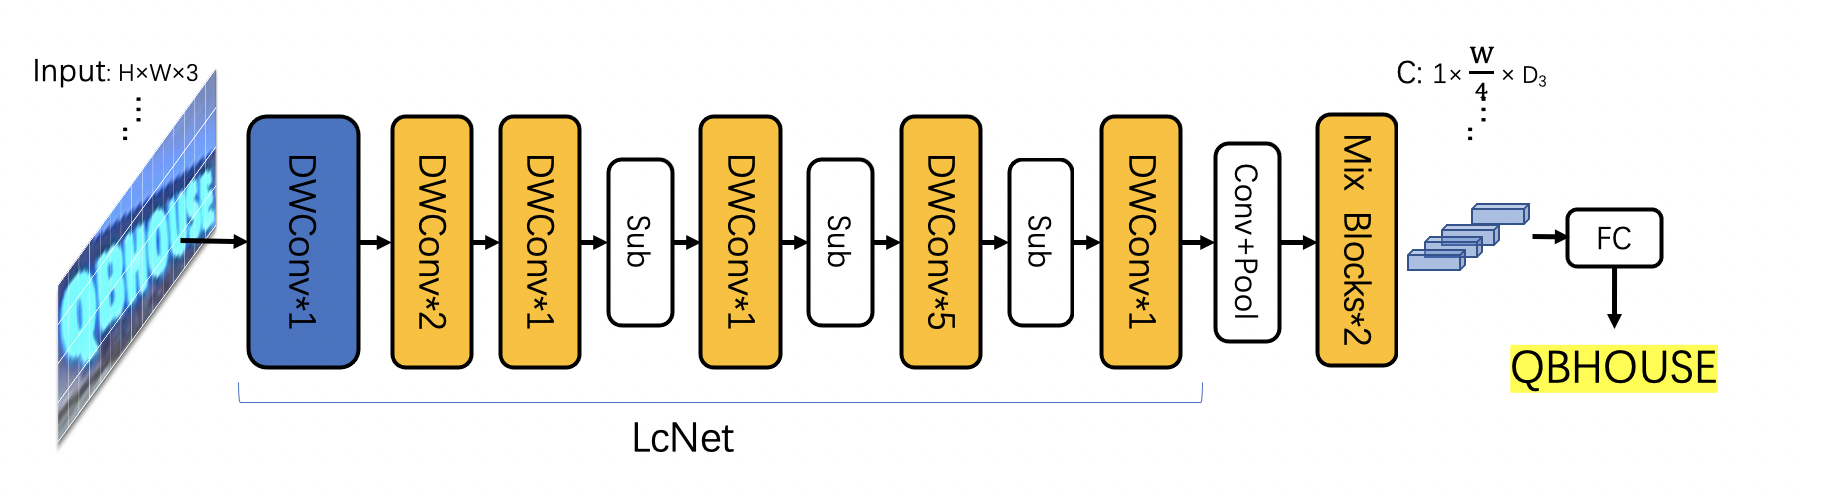
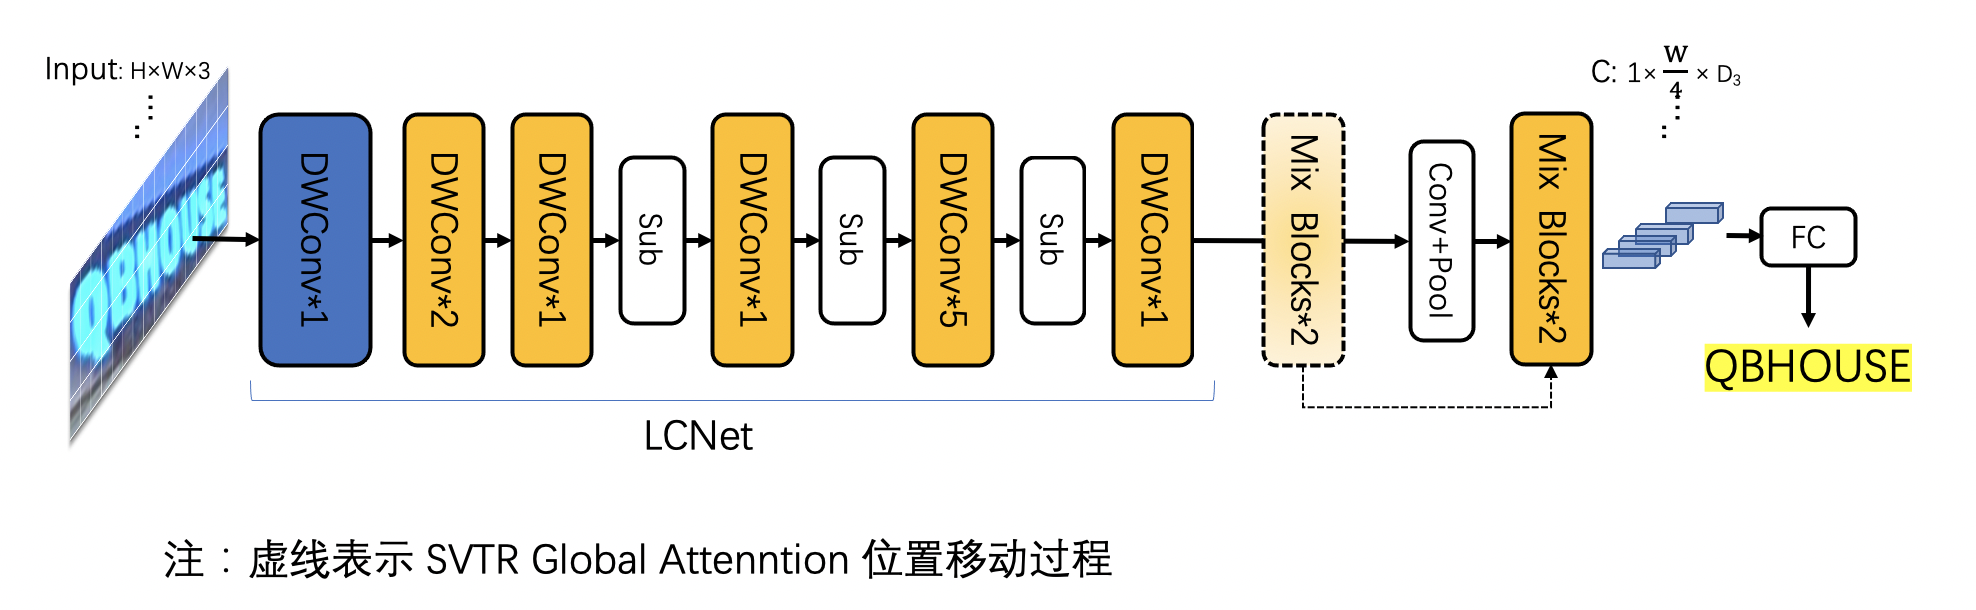
update introduction

diff --git a/doc/doc_ch/ppocr_introduction.md b/doc/doc_ch/ppocr_introduction.md
@@ -54,56 +54,61 @@ PP-OCRv3文本检测从网络结构、蒸馏训练策略两个方向做了进一
 
 - PP-OCRv3 文本识别
 
-[SVTR](todo:add_link) 证明了强大的单视觉模型即可高效准确完成文本识别任务，在中英文数据上均有优秀的表现。基于SVTR的工作，PP-OCRv3首先验证了SVTR_tiny结构在中文数据上的效果。
-实验发现SVTR_tiny在中文测试集上acc可以提升10.7%。
+[SVTR](https://arxiv.org/abs/2205.00159) 证明了强大的单视觉模型（无需序列模型）即可高效准确完成文本识别任务，在中英文数据上均有优秀的表现。经过实验验证，SVTR_tiny在自建的中文数据集上，识别精度可以提升10.7%，网络结构如下所示：
 
 <img src="../ppocr_v3/svtr_tiny.jpg" width=800>
 
-非常遗憾，由于 MKLDNN 加速库支持的模型结构有限，SVTR 在CPU+MKLDNN上相比PP-OCRv2慢了10倍。
+由于 MKLDNN 加速库支持的模型结构有限，SVTR 在CPU+MKLDNN上相比PP-OCRv2慢了10倍。
 
-PP-OCRv3 期望提升模型精度的同时不带来额外的推理耗时，以加速预测为目的，分析得到主要耗时部分在Transformer Block，并对 SVTR_tiny 的结构进行了一系列优化:
+PP-OCRv3 期望在提升模型精度的同时，不带来额外的推理耗时。通过分析发现，SVTR_tiny结构的主要耗时模块为Transformer Block，因此我们对 SVTR_tiny 的结构进行了一系列优化，详细速度数据请参考下方消融实验表格:
 
-1. 将SVTR网络前半部分替换为LCNet的前三个stage，保留4个 SVTR 的 Global attenntion，精度为76%，速度基本不变。
+1. 将SVTR网络前半部分替换为PP-LCNet的前三个stage，保留4个 SVTR 的 Global Attenntion Block，精度为76%，加速69%，网络结构如下所示：
 <img src="../ppocr_v3/svtr_g4.png" width=800>
-2. 将4个Global attention 减小到2个，精度为72.9%，速度提升3倍。
+2. 将4个 Global Attenntion Block 减小到2个，精度为72.9%，加速69%，网络结构如下所示：
 <img src="../ppocr_v3/svtr_g2.png" width=800>
-3. attention 的预测速度与输入其feature的shape有关，因此移动Global attention至avg_pool后，精度下降为71.9%，速度超越 CNN-base 的PP-OCRv2 27%。
+3. 实验发现 Global Attention 的预测速度与输入其特征的shape有关，因此后移Global Attenntion Block的位置到池化层之后，精度下降为71.9%，速度超越 CNN-base 的PP-OCRv2 22%，网络结构如下所示：
 <img src="../ppocr_v3/ppocr_v3.png" width=800>
 
-为了提升模型精度同时不引入额外推理成本，PP-OCRv3参考GTC策略，使用Attention监督CTC训练，预测时完全去除Attention模块，在推理阶段不增加任何耗时, 精度提升3.8%。
+为了提升模型精度同时不引入额外推理成本，PP-OCRv3参考GTC策略，使用Attention监督CTC训练，预测时完全去除Attention模块，在推理阶段不增加任何耗时, 精度提升3.8%，训练流程如下所示：
 <img src="../ppocr_v3/GTC.png" width=800>
 
-训练策略方面参考 [SSL](https://github.com/ku21fan/STR-Fewer-Labels) 设计了文本方向任务，训练了适用于文本识别的预训练模型，加速模型收敛过程，精度提升了0.6%; 使用UDML蒸馏策略，进一步提升精度1.5%。
+在训练策略方面，PP-OCRv3参考 [SSL](https://github.com/ku21fan/STR-Fewer-Labels) 设计了文本方向任务，训练了适用于文本识别的预训练模型，加速模型收敛过程，精度提升了0.6%; 使用UDML蒸馏策略，进一步提升精度1.5%，训练流程所示：
 
 <img src="../ppocr_v3/SSL.png" width="300"> <img src="../ppocr_v3/UDML.png" width="500">
 
 
-数据增强方面基于 [ConCLR](https://www.cse.cuhk.edu.hk/~byu/papers/C139-AAAI2022-ConCLR.pdf) 中的ConAug方法，设计了 RecConAug 数据增强方法，增强数据多样性，精度提升0.5%，
+数据增强方面：
+
+1. 基于 [ConCLR](https://www.cse.cuhk.edu.hk/~byu/papers/C139-AAAI2022-ConCLR.pdf) 中的ConAug方法，设计了 RecConAug 数据增强方法，增强数据多样性，精度提升0.5%，增强可视化效果如下所示：
 <img src="../ppocr_v3/recconaug.png" width=800>
 
+2. 使用训练好的 SVTR_large 预测 120W 的 lsvt 无标注数据，取出其中得分大于0.95的数据，共得到81W识别数据加入到PP-OCRv3的训练数据中，精度提升1%。
 
 总体来讲PP-OCRv3识别从网络结构、训练策略、数据增强三个方向做了进一步优化:
-- 网络结构上：结合 LCNet 与[SVTR](todo:add_link) 的 Transformer block，去除LSTM特征解码模块，并行处理序列特征，兼顾精度与预测速度；参考 [GTC](https://arxiv.org/pdf/2002.01276.pdf) 策略，使用注意力机制模块指导CTC训练，定位和识别字符，提升不规则文本的识别精度。
+
+- 网络结构上：考虑[SVTR](https://arxiv.org/abs/2205.00159) 在中英文效果上的优越性，采用SVTR_tiny作为base，选取Global Attention Block和卷积组合提取特征，并将Global Attention Block位置后移进行加速; 参考 [GTC](https://arxiv.org/pdf/2002.01276.pdf) 策略，使用注意力机制模块指导CTC训练，定位和识别字符，提升不规则文本的识别精度。
 - 训练策略上：参考 [SSL](https://github.com/ku21fan/STR-Fewer-Labels) 设计了方向分类前序任务，获取更优预训练模型，加速模型收敛过程，提升精度; 使用UDML蒸馏策略、监督attention、ctc两个分支得到更优模型。
-- 数据增强上：基于 [ConCLR](https://www.cse.cuhk.edu.hk/~byu/papers/C139-AAAI2022-ConCLR.pdf) 中的ConAug方法，改进得到 RecConAug 数据增广方法，支持随机结合任意多张图片，提升训练数据的上下文信息丰富度，增强模型鲁棒性。
-基于上述策略，PP-OCRv3识别模型相比上一版本，速度基本无损，精度进一步提升4.5%。 具体消融实验：
+- 数据增强上：基于 [ConCLR](https://www.cse.cuhk.edu.hk/~byu/papers/C139-AAAI2022-ConCLR.pdf) 中的ConAug方法，改进得到 RecConAug 数据增广方法，支持随机结合任意多张图片，提升训练数据的上下文信息丰富度，增强模型鲁棒性；使用 SVTR_large 预测无标签数据，向训练集中补充81w高质量真实数据。
+
+基于上述策略，PP-OCRv3识别模型相比PP-OCRv2，在速度可比的情况下，精度进一步提升4.5%。 体消融实验如下所示：
 
 实验细节：
 
-| id | 策略 |  模型大小 | 精度 |
-|-----|-----|--------|----|
-| 01 | PP-OCRv2 | 8M | 69.3% |
-| 02 | SVTR_tiny | 19M | 80.1% |
-| 03 | LCNet_SVTR_G6 | 8.2M | 76% |
-| 04 | LCNet_SVTR_G1 | - | 72.98% |
-| 05 | PP-OCRv3 | 12M | 71.9% |
-| 06 | + GTC | 12M | 75.8% |
-| 07 | + RecConAug | 12M | 76.3% |
-| 08 | + SSL pretrain | 12M | 76.9% |
-| 09 | + UDML | 12M | 78.4% |
-| 10 | + unlabeled data | 12M | 79.4% |
+| id | 策略 |  模型大小 | 精度 | 速度（cpu + mkldnn)|
+|-----|-----|--------|----| --- |
+| 01 | PP-OCRv2 | 8M | 69.3% | 8.54ms |
+| 02 | SVTR_tiny | 21M | 80.1% | 97ms |
+| 03 | LCNet_SVTR_G6 | 9.2M | 76% | 30ms |
+| 04 | LCNet_SVTR_G1 | 13M | 72.98% | 9.37ms |
+| 05 | PP-OCRv3 | 12M | 71.9% | 6.6ms |
+| 06 | + large input_shape | 12M | 73.98% | 7.6ms |
+| 06 | + GTC | 12M | 75.8% | 7.6ms |
+| 07 | + RecConAug | 12M | 76.3% | 7.6ms |
+| 08 | + SSL pretrain | 12M | 76.9% | 7.6ms |
+| 09 | + UDML | 12M | 78.4% | 7.6ms |
+| 10 | + unlabeled data | 12M | 79.4% | 7.6ms |
 
-
+注： 测试速度时，输入图片尺寸均为(3,32,320)
 
 <a name="2"></a>
 ## 2. 特性
